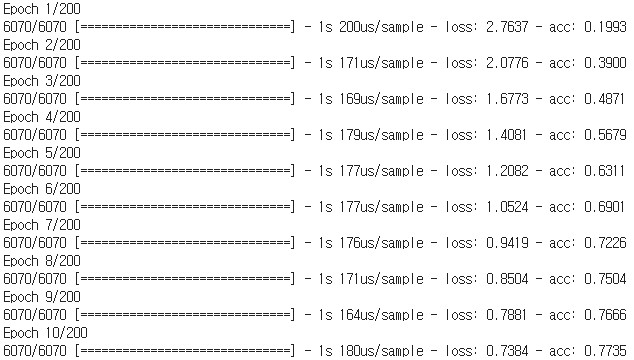
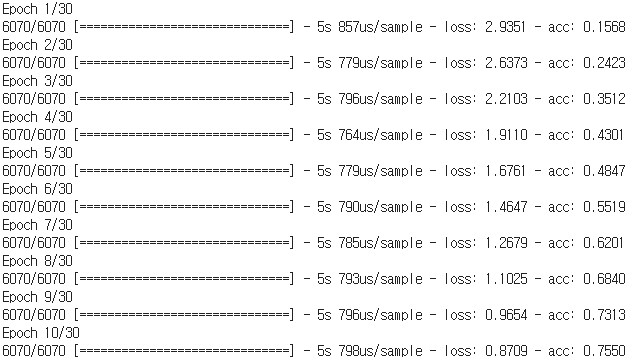
Add files via upload

diff --git a/PredictSentence.py b/PredictSentence.py
@@ -9,12 +9,13 @@ import DataOperator as do
 
 import RNNLMNetwork as rn
 
-def generate_sentence(char_to_index, index_to_char, model, input_char, generate_num):
+def generate_sentence(char_to_index, index_to_char, char_count, model, input_char, generate_num):
     sentence = input_char.lower()
 
     for _ in range(generate_num):
         encoded = [char_to_index[char] for char in sentence]
         encoded = kr.preprocessing.sequence.pad_sequences([encoded], maxlen=cfg.max_sequence_len, padding='pre', truncating='pre')
+        encoded = kr.utils.to_categorical(encoded, num_classes=char_count)
 
         predict_label_index = model.predict_classes(encoded)
         char = index_to_char[predict_label_index[0]]
@@ -38,7 +39,7 @@ def main():
     rnnlm_model = rn.create_model(char_count, input_model_path)
 
     print()
-    print(generate_sentence(char_to_index, index_to_char, rnnlm_model, input_char, input_predict_count))
+    print(generate_sentence(char_to_index, index_to_char, char_count, rnnlm_model, input_char, input_predict_count))
 
 if __name__ == '__main__':
     main()

diff --git a/RNNLMNetwork.py b/RNNLMNetwork.py
@@ -6,8 +6,7 @@ import Configuration as cfg
 def create_model(char_count, pre_train_file=None):
     model = kr.models.Sequential()
 
-    model.add(kr.layers.Embedding(input_dim=char_count, output_dim=64, input_length=cfg.max_sequence_len, name='embed1'))
-    model.add(kr.layers.SimpleRNN(units=128, name='rnn1'))
+    model.add(kr.layers.LSTM(units=128, input_dim=char_count, input_length=cfg.max_sequence_len, name='lstm1'))
     model.add(kr.layers.Dense(units=char_count, activation='softmax', name='fc1'))
 
     if pre_train_file is not None:

diff --git a/DataOperator.py b/DataOperator.py
@@ -34,7 +34,7 @@ def load_train_data(train_data_path):
     sequence_list = kr.preprocessing.sequence.pad_sequences(sequence_list, maxlen=cfg.max_sequence_len + 1, padding='pre', truncating='pre')
     sequence_list = np.array(sequence_list)
 
-    train_text = sequence_list[:, :-1]
+    train_text = kr.utils.to_categorical(sequence_list[:, :-1], num_classes=char_count)
     train_label = kr.utils.to_categorical(sequence_list[:, -1], num_classes=char_count)
 
     return char_to_index, char_count, train_text, train_label

diff --git a/Configuration.py b/Configuration.py
@@ -1,3 +1,3 @@
 max_sequence_len = 10
 
-epochs = 200
+epochs = 30
